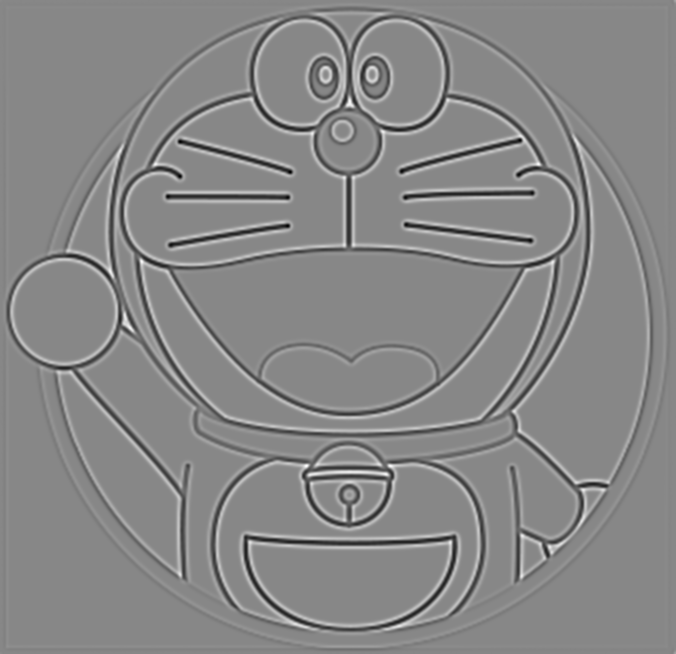
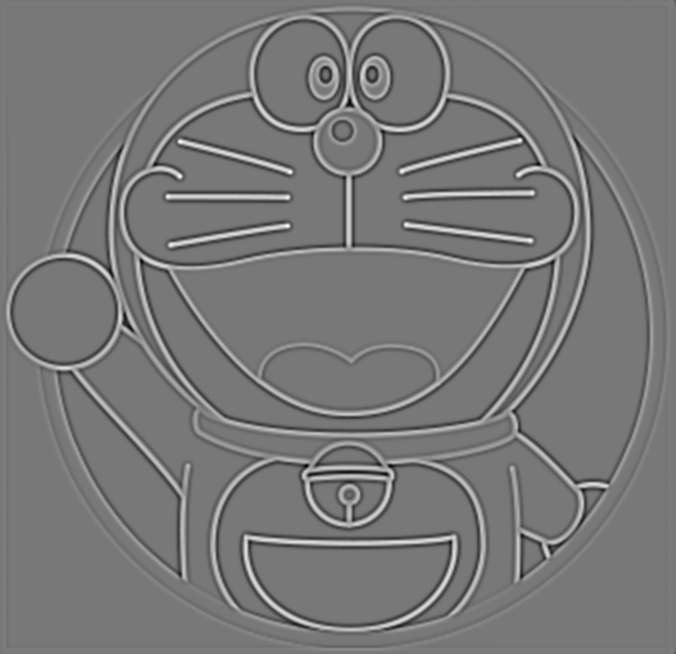
change subtraction order

Changed region(s): [[0.0, 0.0, 0.9941, 1.0], [0.9941, 0.9786, 1.0, 1.0]]

diff --git a/hw1/part1/DoG.py b/hw1/part1/DoG.py
@@ -30,7 +30,7 @@ class Difference_of_Gaussian(object):
 
         # Step 2: Subtract 2 neighbor images to get DoG images (4 images per octave, 2 octave in total)
         # - Function: cv2.subtract(second_image, first_image)
-        dog_images = [np.stack([cv2.subtract(gaussian_images[j][i], gaussian_images[j][i + 1])
+        dog_images = [np.stack([cv2.subtract(gaussian_images[j][i + 1], gaussian_images[j][i])
                                for i in range(self.num_DoG_images_per_octave)]) for j in range(self.num_octaves)]
 
         # Step 3: Thresholding the value and Find local extremum (local maximun and local minimum)
